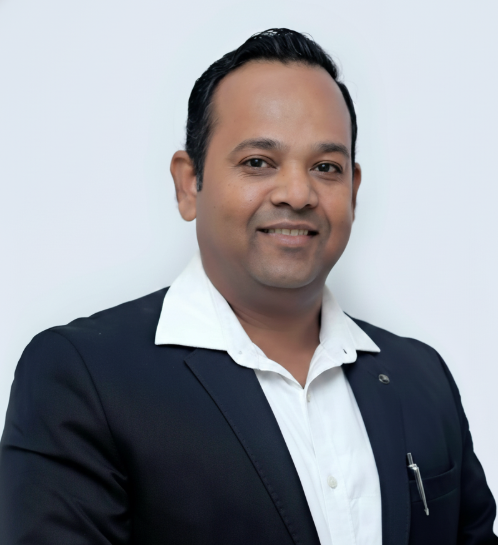
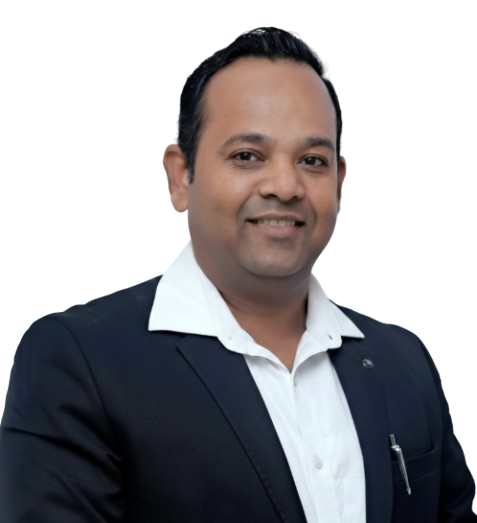
final today

diff --git a/index.html b/index.html
@@ -709,9 +709,9 @@
           <div class="col-lg-4 col-md-6" data-aos="fade-up" data-aos-delay="100">
             <div class="member">
               <div class="pic"><img src="assets/img/team/team-1.png" class="img-fluid" alt=""></div>
-              <div class="member-info">
+              <div class="member-infoss">
                 <h4>Ravi Kumar Sharma</h4>
-                <span>Sales & Marketing</span>
+                <span class="team .member span">Sales & Marketing</span>
                 <div class="social">
                   <a href=""><i class="bi bi-twitter-x"></i></a>
                   <a href=""><i class="bi bi-facebook"></i></a>
@@ -724,8 +724,8 @@
 
           <div class="col-lg-4 col-md-6" data-aos="fade-up" data-aos-delay="200">
             <div class="member">
-              <div class="pic"><img src="assets/img/team/team-2.jpeg" class="img-fluid" alt=""></div>
-              <div class="member-info">
+              <div class="pic"><img src="assets/img/team/team-2.png" class="img-fluid" alt=""></div>
+              <div class="member-infos">
                 <h4>R.S. Chauhan</h4>
                 <span>Product Marketing and Purchase</span>
                 <div class="social">
@@ -740,7 +740,7 @@
 
           <div class="col-lg-4 col-md-6" data-aos="fade-up" data-aos-delay="300">
             <div class="member">
-              <div class="pic"><img src="assets/img/team/team-21.png" class="img-fluid" alt=""></div>
+              <div class="pic"><img src="assets/img/team/team-3.png" class="img-fluid" alt=""></div>
               <div class="member-info">
                 <h4>K.G Singh</h4>
                 <span>Service & Operation</span>

diff --git a/assets/css/main.css b/assets/css/main.css
@@ -1470,10 +1470,19 @@ section,
   position: relative;
 }
 
-.team .member .pic {
-  overflow: hidden;
-  margin-bottom: 50px;
+.team .member .pic img {
+  width: 60%;      /* reduce this % as needed */
+  height: auto;
+  object-fit: contain;
+  display: block;
+  margin: 0 auto;  /* center the image */
 }
+
+.team .member span {
+  font-weight: 800;
+}
+
+
 
 .team .member .member-info {
   background-color: var(--surface-color);
@@ -1481,6 +1490,31 @@ section,
   box-shadow: 0px 2px 15px rgba(0, 0, 0, 0.1);
   position: absolute;
   bottom: -50px;
+  left: 20px;
+  right: 20px;
+  padding: 20px 15px;
+  overflow: hidden;
+  transition: 0.5s;
+}
+
+.team .member .member-infos {
+  background-color: var(--surface-color);
+  color: color-mix(in srgb, var(--default-color), transparent 20%);
+  box-shadow: 0px 2px 15px rgba(0, 0, 0, 0.1);
+  position: absolute;
+  bottom: -70px;
+  left: 20px;
+  right: 20px;
+  padding: 20px 15px;
+  overflow: hidden;
+  transition: 0.5s;
+}
+.team .member .member-infoss {
+  background-color: var(--surface-color);
+  color: color-mix(in srgb, var(--default-color), transparent 20%);
+  box-shadow: 0px 2px 15px rgba(0, 0, 0, 0.1);
+  position: absolute;
+  bottom: -46px;
   left: 20px;
   right: 20px;
   padding: 20px 15px;
